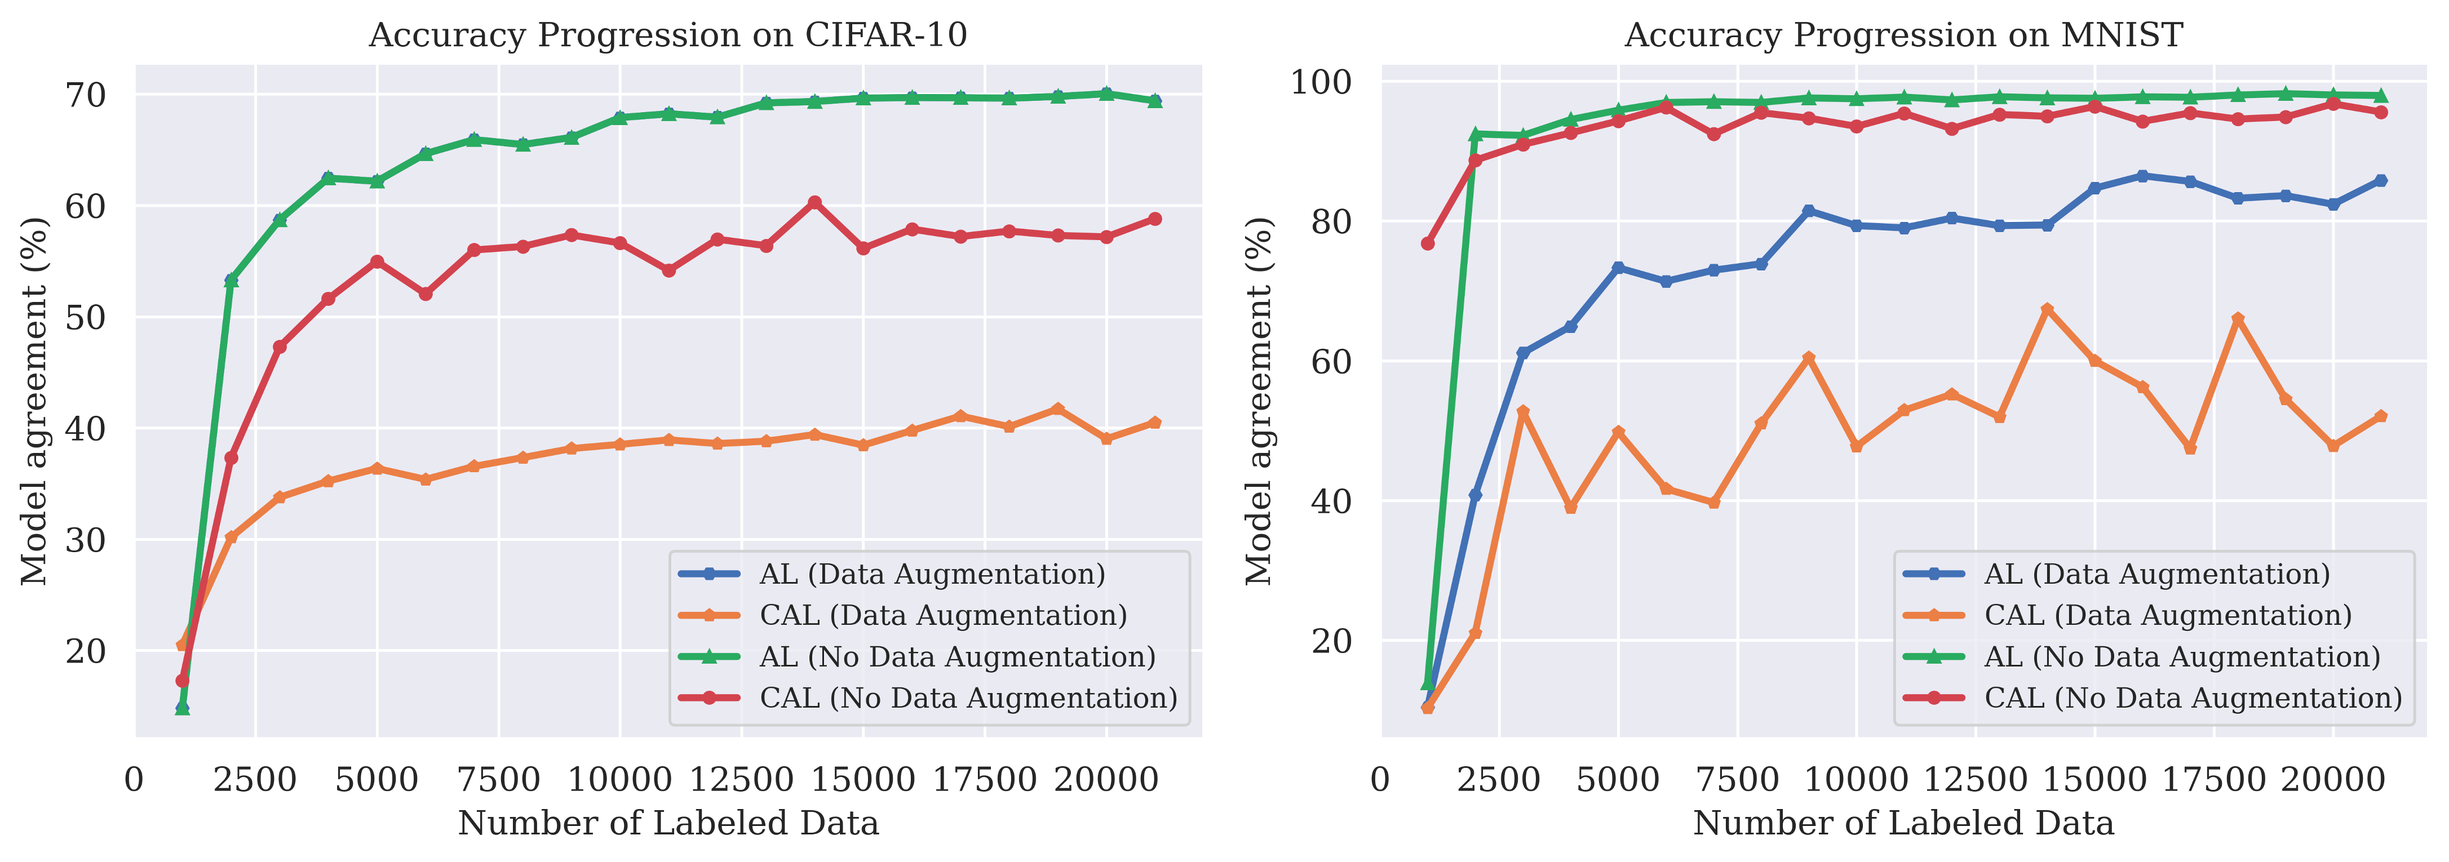
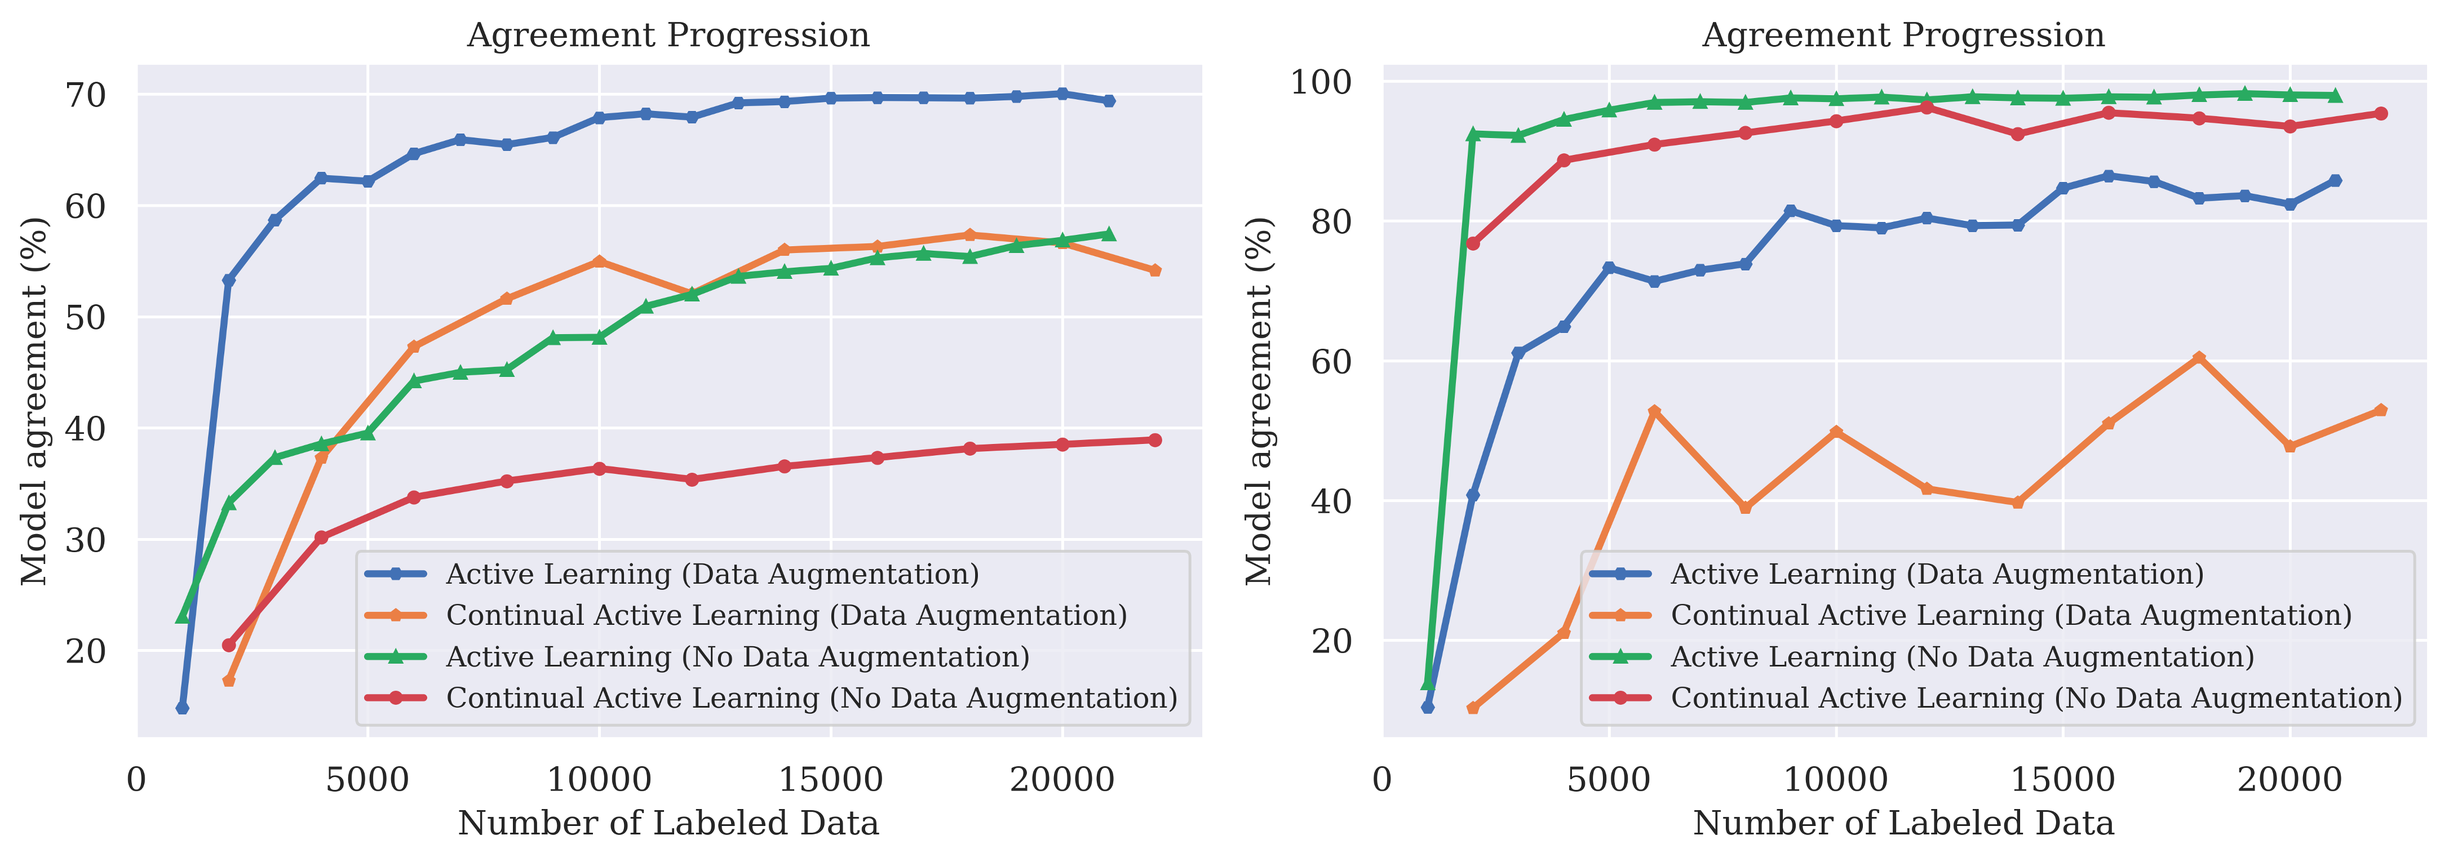
Finish first draft of evaluation section

diff --git a/doc/thesis/sections/evaluation.tex b/doc/thesis/sections/evaluation.tex
@@ -451,11 +451,16 @@ increases throughout the experiment when using SmallImagenet, the model agreemen
 
 In this section, we evaluate the success of Model Stealing Attacks using Continual Active Learning. More specifically, we run Model Stealing Attacks with Continual Active Learning on the datasets MNIST, CIFAR-10 and CIFAR-100, using the Active Learning strategies
 Random, LC, BALD, Badge and CoreSet and the Continual Learning strategies Naive, EWC, IMM, MAS and Alasso. Furthermore, we differentiate between receiving the softmax output of the target model and solely receiving the top1-label. We use the ActiveThiefConv3 model
-as the target and substitute model and perform one model stealing attack for each combination of Active Learning, Continual Learning strategy and target model output. As a baseline we use the Model Extraction using Active Learning with the strategies mentioned before.
-For each Active Learning strategy, we highlight the best performing Continual Learning strategy in bold. To evaluate the performance of the Active Learning strategies, we average the results of all Continual Learning strategies for a fixed Active Learning strategy.
-Again, the best performing Active Learning strategy is highlighted in bold\par
+as the target and substitute model and perform one model stealing attack for each combination of Active Learning, Continual Learning strategy and target model output. For the baseline runs, we use a batch size of 1000 with a total query budget of 20000. The query budget
+is kept for the Continual Active Learning runs, but we increase the batch size to 2000. The numbers reported in the table represent the model agreement at the end of each experiment, i.e. after using up the query budget of 20000. Readers interested in the progression of the
+model agreement across the experiments can find the respective plots in appendix \ref{sec:Appendix:Results}. As a baseline we use the Model Extraction using Active Learning with the strategies mentioned before. To evaluate both the Active Learning strategies and the Continual
+Learning strategies, we compute the average over the model agreement of all Continual Learning strategies combined with a fixed Active Learning strategy and the average of all Active Learning strategies combined with a fixed Continual Learning strategy. These numbers are given
+at the end of each column and row, respectively. The Active Learning strategy and the Continual Learning strategy with the highest average model agreement are highlighted in bold. \par
 In the first set of experiments, we perform Model Stealing Attacks using Continual Active Learning with MNIST as our target model and train the substitute model on the softmax output of the target model. The results of this experiment can be found in table
-\ref{fig:ModelStealingMNISTSoftmax}.
+\ref{fig:ModelStealingMNISTSoftmax}. In terms of model agreement, all Continual Active Learning attacks perform significantly worse than the baseline. The best performing attack is the combination of the Active Learning strategy BALD with the Continual Learning strategy
+MAS with a model agreement of 67.84\% after a query budget of 20000. The best performing Active Learning strategy is BALD with an average model agreement of 52.52\% across all Continual Learning strategies whereas the best Continual Learning strategy is MAS with an average
+model agreement of 57.73\%. While the Continual Learning strategies struggled to outperform the Naive approach in the classic Continual Active Learning setting, most of them outperform the Naive approach in the Model Stealing setting. The only exception to this is Alasso which
+falls behind the other approaches significantly. \par 
 
 \begin{table}[h]
     \centering
@@ -463,7 +468,7 @@ In the first set of experiments, we perform Model Stealing Attacks using Continu
         \hline
         \diagbox[width=11em]{Active \\ Learning Strategy}{Continual Learning \\ Strategy} & Random & LC & BALD & CoreSet & Badge & $\varnothing$\\ 
         \hline 
-        Baseline & 85.6 & 85.65 & 83.67 & 90.65 & 81.62 & 85.44\\
+        Baseline & 87.91 & 82.39 & 83.64 & 91.22 & 79.68 & 84.97\\
         \hline
         Naive & 47.74 & 43.02 & 59.61 & 58.36 & 48.89 & 51.52\\
         EWC &  59.26 & 53.67 & 59.18 & 56.13 & 50.28 & 55.7\\
@@ -479,13 +484,18 @@ In the first set of experiments, we perform Model Stealing Attacks using Continu
     \label{fig:ModelStealingMNISTSoftmax}
 \end{table}
 
+Next, we change the output of the target model to solely return the top1-label and perform the same set of experiments. Table \ref{fig:ModelStealingMNISTLabel} shows the results of these experiments. While the model agreement compared to training with softmax output of the
+target model has dropped significantly for the baseline strategies, we do not observed a similar phenomenon for the Continual Active Learning strategies. Nevertheless, we observe a large maring between the Model Agreement of the Active Learning strategies and the Model Agreement
+of the Continual Active Learning strategies. However, the combination of BALD and Naive comes close to its baseline, demonstrating a Model Agreement of 69.18\% which is about 7 percentage points lower than the respective baseline. Overall, the Naive approach performs best with an
+average Model Agreement of 51.29\% across all Active Learning strategies. Contrary to the previous setup, no Continual Learning strategy outperforms the Naive approach, with MAS coming closest. The best Active Learning strategy is BALD with an average Model Agreement of 55.73\%. \par 
+
 \begin{table}[h]
     \centering
     \begin{tabular}{c | c c c c c | c} 
         \hline
         \diagbox[width=11em]{Active \\ Learning Strategy}{Continual Learning \\ Strategy} & Random & LC & BALD & CoreSet & Badge & $\varnothing$ \\ 
         \hline 
-        Baseline & 60.34 & 72.77 & 70.2 & 77.58 & 72.15 & 70.61\\
+        Baseline & 67.56 & 80.36 & 76.29 & 81.62 & 76.43 & 76.45\\
         \hline
         Naive & 43.44 & 58.84 & 69.18 & 44.88 & 40.12 & \textbf{51.29}\\
         EWC &  46.76 & 47.3 & 52.36 & 36.84 & 44.73 & 45.6\\
@@ -501,13 +511,18 @@ In the first set of experiments, we perform Model Stealing Attacks using Continu
     \label{fig:ModelStealingMNISTLabel}
 \end{table}
 
+We move on to the next dataset which is CIFAR-10. First, we perform Model Stealing attacks using the softmax output of the target model. Our results can be found in Table \ref{fig:ModelStealingCIFAR10Softmax}. Similar to our findings from the MNIST dataset, the Continual Active Learning
+are outperformed by the Active Learning strategies, however the gap between is mostly consistent across combinations of Active and Continual Learning strategies at around 10 percentage points. Alasso is once again an exception to this, performing significantly worse than the other
+Continual Learning strategies. The best Continual Active Learning strategy is EWC with an average Model Agreement of 60.14\%. At the same time, EWC is the only Continual Learning strategy to outperform the Naive approach, albeit the margin between the two is only 0.48 percentage points.
+Overall, CoreSet is the most performant Active Learning strategy with an average model agreement of 54.12\% across all Continual Learning strategies. \par
+
 \begin{table}[h]
     \centering
     \begin{tabular}{c | c c c c c | c} 
         \hline
         \diagbox[width=11em]{Active \\ Learning Strategy}{Continual Learning \\ Strategy} & Random & LC & BALD & CoreSet & Badge & $\varnothing$\\ 
         \hline 
-        Baseline & 70.98 & 69.4 & 72.65 & 71.61 & 71.39 & 71.21\\
+        Baseline & 71.58 & 70.04 & 71.96 & 71.45 & 71.44 & 71.29\\
         \hline
         Naive & 60.8 & 56.62 & 61.84 & 61.61 & 57.42 & 59.66 \\
         EWC & 58.67 & 56.8 & 61.57 & 61.79 & 61.88 & \textbf{60.14}\\
@@ -523,13 +538,19 @@ In the first set of experiments, we perform Model Stealing Attacks using Continu
     \label{fig:ModelStealingCIFAR10Softmax}
 \end{table}
 
+In our next experiment setup, we use the predicted label of the target model to train the substitute model, again with CIFAR-10 as the target model dataset. We present the results of this set of experiments in Table \ref{fig:ModelStealingCIFAR10Label}. Overall,
+the Model Agreement is lower than when training with the softmax output of the target model, which is in line with the experiments conducted on the MNIST dataset. The gap between the baseline and the Continual Learning strategies has remained the same however,
+resting at around 10 percentage points. EWC is again the best performing Continual Learning strategy, outperforming the Naive approach by a large margin this time around. IMM follows closely, also beating the Naive approach. The main reason for the large gap
+between the Naive approach and EWC as well as IMM is the poor performance of BALD and Naive. Surprised by the poor performance of this combination, we run it again and find that the results are consistent. MAS and Alasso, on the other hand, do not manage to
+outperform the Naive approach. In terms of Active Learning strategies, CoreSet performs best with an average Model Agreement of 43.57\% across all Continual Learning strategies. \par
+
 \begin{table}[h]
     \centering
     \begin{tabular}{c | c c c c c | c} 
         \hline
         \diagbox[width=11em]{Active \\ Learning Strategy}{Continual Learning \\ Strategy} & Random & LC & BALD & CoreSet & Badge & $\varnothing$\\ 
         \hline 
-        Baseline & 55.12 & 10.25 & 61.12 & 61.68 & 58.32 & 49.3\\
+        Baseline & 60.23 & 49.73 & 61.28 & 63.78 & 62.26 & 59.46\\
         \hline
         Naive & 49.84 & 30.03 & 10.18 & 48.44 & 45.25 & 36.75\\
         EWC & 50.37 & 47.12 & 50.22 & 47.94 & 49.11 & \textbf{48.95} \\
@@ -545,20 +566,26 @@ In the first set of experiments, we perform Model Stealing Attacks using Continu
     \label{fig:ModelStealingCIFAR10Label}
 \end{table}
 
+The final target model dataset which we test for our setup is CIFAR-100. Like in the previous experiments, we first test all combination of Continual and Active Learning strategies trained on the softmax output of the target model
+and compare them to the baseline of Active Learning. An exception to this are all experiments involving the Active Learning strategy Badge. We found the estimated runtime of Badge using ActiveThiefConv as our substitute model and SmallImagenet as our thief dataset
+to be in excess of 40 days on our hardware, which is why we were unable to deliver results for this combination. The results for the remaining combinations from this set of experiments can be found in table \ref{fig:ModelStealingCIFAR100Softmax}.
+Across the board, Model Agreement is significantly lower than in our previous experiments. The gap between the baseline and the Continual Learning strategies has decreased in absolute terms but increased in relative terms. Like in our previous experiments, EWC outperforms
+the remaining Continual Learning strategies, and it is one of two Continual Learning strategies which manage to outperform the Naive approach. The other strategy is IMM, which puts on a performance in between EWC and the Naive approach. MAS follows behind the Naive approach
+and Alasso is left behind once again. The best Active Learning strategy is CoreSet, which outperforms BALD by 0.57 percentage points. \par
 
 \begin{table}[h]
     \centering
     \begin{tabular}{c | c c c c | c} 
         \hline
-        \diagbox[width=11em]{Active \\ Learning Strategy}{Continual Learning \\ Strategy} & Random & LC & BALD & CoreSet \\ 
+        \diagbox[width=11em]{Active \\ Learning Strategy}{Continual Learning \\ Strategy} & Random & LC & BALD & CoreSet & $\varnothing$\\ 
         \hline 
-        Baseline & 26.65 & 26.37 & 28.08 & 27.53  \\
+        Baseline & 25.43 & 26.92 & 28.01 & 27.48 & 26.96 \\
         \hline
-        Naive & 18.46 & \textbf{18.48} & 16.8 & 17.69 \\
-        EWC & \textbf{19.45} & 17.46 & \textbf{20.67} & \textbf{19.98}\\
-        IMM & 18.16 & 17.9 & 20.39 & 18.75\\
-        MAS & 15.75 & 14.85 & 14.72 & 15.45 \\
-        Alasso & 5.2 & 4.95 & 6.7 & 10.24 \\
+        Naive & 18.46 & 18.48 & 16.8 & 17.69 & 17.86\\
+        EWC & 19.45 & 17.46 & 20.67 & 19.98 & \textbf{19.39}\\
+        IMM & 18.16 & 17.9 & 20.39 & 18.75 & 18.8\\
+        MAS & 15.75 & 14.85 & 14.72 & 15.45 & 15.19\\
+        Alasso & 5.2 & 4.95 & 6.7 & 10.24 & 6.77\\
         \hline
         $\varnothing$ & 15.4 & 14.73 & 15.85 & \textbf{16.42}\\
         \hline
@@ -568,18 +595,26 @@ In the first set of experiments, we perform Model Stealing Attacks using Continu
     \label{fig:ModelStealingCIFAR100Softmax}
 \end{table}
 
+Finally, we compute the Model Agreement across multiple combinations of Continual Learning and Active Learning strategies using the predicted label of the target model and CIFAR-100 as our target model dataset. As in the previous set of experiments, we omit the results of
+the Active Learning strategy Badge. Compared to training on the softmax output of the target model, the model agreement has disproportionally decreased for the Continual Learning strategies. While the baseline strategies boast a Model Agreement of 20.42\% on average, the
+best Continual Learning strategy, which is IMM, manages to achieve a Model Agreement of 8.07\% on average. IMM significantly outperforms both the Naive approach and EWC, which demonstrate almost identical performance. We were surprised by the poor performance of EWC and BALD,
+which is why we conducted this experiment one more time, however we achieved similar results. The remaining Continual Learning strategies, MAS and Alasso, perform worse than the Naive approach. Remarkably, Alasso outperforms MAS, making this the only set of experiments in which
+Alasso is not the worst performing Continual Learning strategy. Another surprise is the performance of the Random Active Learning strategy, which outperforms the remaining Active Learning strategies. CoreSet, which demonstrated strong performance in previous experiments, falls behind
+Random and LC, outperforming only BALD by about one percentage point. \par
+
 \begin{table}[h]
     \centering
-    \begin{tabular}{c | c c c c } 
+    \begin{tabular}{c | c c c c | c} 
         \hline
-        \diagbox[width=11em]{Active \\ Learning Strategy}{Continual Learning \\ Strategy} & Random & LC & BALD & CoreSet \\ 
+        \diagbox[width=11em]{Active \\ Learning Strategy}{Continual Learning \\ Strategy} & Random & LC & BALD & CoreSet & $\varnothing$\\ 
         \hline 
-        Baseline & 21.26 & 19.89 & 21.0 & 20.96\\
-        Naive & 7.93 & 7.63 & 4.98 & 4.82\\
-        EWC & \textbf{8.79} & 6.55 & 2.07 & 7.77 \\
-        IMM & 8.59 & \textbf{8.44} & 7.18 & \textbf{8.05} \\
-        MAS & 5.37 & 5.44 & 5.3 & 4.52 \\
-        Alasso & 5.28 & 6.11 & \textbf{5.72} & 5.51 \\
+        Baseline & 21.65 & 19.5 & 19.64 & 20.9 & 20.42\\
+        \hline
+        Naive & 7.93 & 7.63 & 4.98 & 4.82 & 6.34\\
+        EWC & 8.79 & 6.55 & 2.07 & 7.77 & 6.3\\
+        IMM & 8.59 & 8.44 & 7.18 & 8.05 & \textbf{8.07}\\
+        MAS & 5.37 & 5.44 & 5.3 & 4.52 & 5.16\\
+        Alasso & 5.28 & 6.11 & 5.72 & 5.51 & 5.66\\
         \hline
         $\varnothing$ & \textbf{7.19} & 6.83 & 5.05 & 6.13 \\
         \hline
@@ -589,7 +624,11 @@ In the first set of experiments, we perform Model Stealing Attacks using Continu
     \label{fig:ModelStealingCIFAR100Label}
 \end{table}
 
-
+After having conducted our experiments with the Continual Learning strategies Naive, EWC, MAS, IMM and Alasso as well as the Active Learning strategies Random, BALD, LC, CoreSet and Badge, we test the combination of the Active Learning strategy VAAL with the Continual Learning
+strategy AGEM. We motivate this experiment by the performance of VAAL and AGEM in the classic Continual Learning setup, given in Figure \ref{sec:Evaluation:Results:CAL:VAAL_AGEM}. The experiments are performed in the same manner as the previous experiments in this section. To evaluate
+the performance of VAAL and AGEM, we compare the results to the best performing Active Learning strategy, CoreSet, and the combination of the best performing Continual Learning strategy and the most performant Active Learning strategy, which are EWC and CoreSet, respectively. 
+The results of the comparison are given in Table \ref{fig:ModelStealingVAAL_AGEM}. We present the progression in Model Agreement with VAAL and AGEM in Appendix \ref{sec:Appendix:Results}. While VAAL and AGEM cannot keep up with the performance of the baseline, just as all Continual
+Active Learning approaches, it performs on par with CoreSet and EWC, outperforming them in 3 out of 6 experiments while being outperformed in the remaining 3 experiments. \par
 \begin{table}[h]
     \centering
     \begin{tabular}{c c c c c c c} 
@@ -598,14 +637,22 @@ In the first set of experiments, we perform Model Stealing Attacks using Continu
         \cline{2-7} Attack strategy & Softmax & Label & Softmax & Label & Softmax & Label \\
         \hline 
         VAAL AGEM & 52.54 & 53.8 & 61.48 & 50.5 & 18.29 & 8.77\\
+        CoreSet EWC & 56.13 & 36.84 & 61.79 & 47.94 & 19.98 & 7.77 \\
         Coreset Baseline & 90.65 & 77.58 & 71.61 & 61.68 & 27.52 & 20.96\\
         \hline
     \end{tabular}
-    \caption{Comparison of Model Agreement (in \%) for Continual Active Learning using VAAL and AGEM and the Coreset Baseline}
+    \caption{Comparison of Model Agreement (in \%) for Continual Active Learning using VAAL and AGEM, CoreSet and EWC as well as the Coreset Baseline}
     \label{fig:ModelStealingVAAL_AGEM}
 \end{table}
 
-%TODO redo left plot with new data
+We close the evaluation section with a surprising finding regarding the effect of data augmentation on the success of Model Stealing Attacks. While we managed to reproduce the findings of Pal et al. for CIFAR-10, we failed to do so for MNIST. Since multiple training hyperparameters
+of the experiments presented in ActiveThief were not disclosed by the authors, we experiment with different combinations of hyperparameters, including varying the optimizer, the learning rate, the number of training epochs, the batch size and switching between cold start and warm start
+for Active Learning. Sadly, we were still not able to reproduce the results of ActiveThief on MNIST. After conducting the experiments presented above, we decided to investigate another hyperparameter: training with or without data augmentation. For this set of experiments, we leave all
+hyperparameters equal to the previous experiments, apart from the data augmentation. It is important to note here that we do or do not use data augmentation on the thief dataset, not on the target model dataset. Training the target model is always done using data augmentation. We perform
+the same model stealing attacks as before, using MNIST and CIFAR-10 as target model dataset and present the results in figure \ref{fig:Evaluation:Results:CAL:EffectAugmentation}. When performing Model Stealing Attacks without data augmentation on CIFAR-10, we notice that Model Agreement,
+both for Active Learning and Continual Active Learning, is significantly lower than when using data augmentation. In this scenario, Continual Active Learning with data augmentation performs on par with Active Learning without data augmentation. However, when using MNIST as target model
+dataset, the results are reversed. Here, Model Agreement is significantly lower when using data augmentation. More importantly Continual Active Learning without data augmentation shows performance comparable to Active Learning with data augmentation. \par
+
 \begin{figure}[h]
     \centering
     \includegraphics[width=\linewidth]{images/results_CALMS/effect_data_augmentation.png}
@@ -613,12 +660,3 @@ In the first set of experiments, we perform Model Stealing Attacks using Continu
     we use a batch size of 2000. Left: Experiments with the target model dataset CIFAR-10. Right: Experiments with the target model dataset MNIST.}
     \label{fig:Evaluation:Results:CAL:EffectAugmentation}
 \end{figure}
-
-
-\section{Discussion}
-\label{sec:Evaluation:ThirdSection}
-% Was war das Ziel? Was wurde (nicht) erreicht?
-
-%% ---------------------
-%% | / Example content |
-%% ---------------------

diff --git a/doc/thesis/sections/discussion.tex b/doc/thesis/sections/discussion.tex
@@ -1,0 +1,22 @@
+%% LaTeX2e class for student theses
+%% sections/conclusion.tex
+%% 
+%% Karlsruhe Institute of Technology
+%% Institute for Program Structures and Data Organization
+%% Chair for Software Design and Quality (SDQ)
+%%
+%% Dr.-Ing. Erik Burger
+%% burger@kit.edu
+%%
+%% Version 1.3.6, 2022-09-28
+
+\chapter{Discussion}
+\label{ch:Discussion}
+% Was war das Ziel? Was wurde (nicht) erreicht?
+
+\section{Continual Active Learning}
+\label{sec:Discussion:ContinualActiveLearning}
+
+
+\section{Model Stealing}
+\label{sec:Discussion:ContinualActiveLearning}

diff --git a/doc/thesis/sections/appendix.tex b/doc/thesis/sections/appendix.tex
@@ -423,3 +423,5 @@ is trained on $\frac{n(n+b)}{2b}$ data points
     \caption[Accuracy Comparison for Model Stealing on MNIST using the softmax output and the Active Learning strategy Badge]{TODO: Nice text here}
     \label{fig:CALMSMNISTSoftmaxBadge}
 \end{figure}
+
+%TODO: Hier VAAL AGEM einfügen

diff --git a/doc/thesis/thesis.tex b/doc/thesis/thesis.tex
@@ -142,6 +142,7 @@
 \input{sections/methodology.tex}
 \input{sections/experiment_setup.tex}
 \input{sections/evaluation.tex}
+\input{sections/discussion.tex}
 \input{sections/conclusion.tex}
 
 %% --------------------
